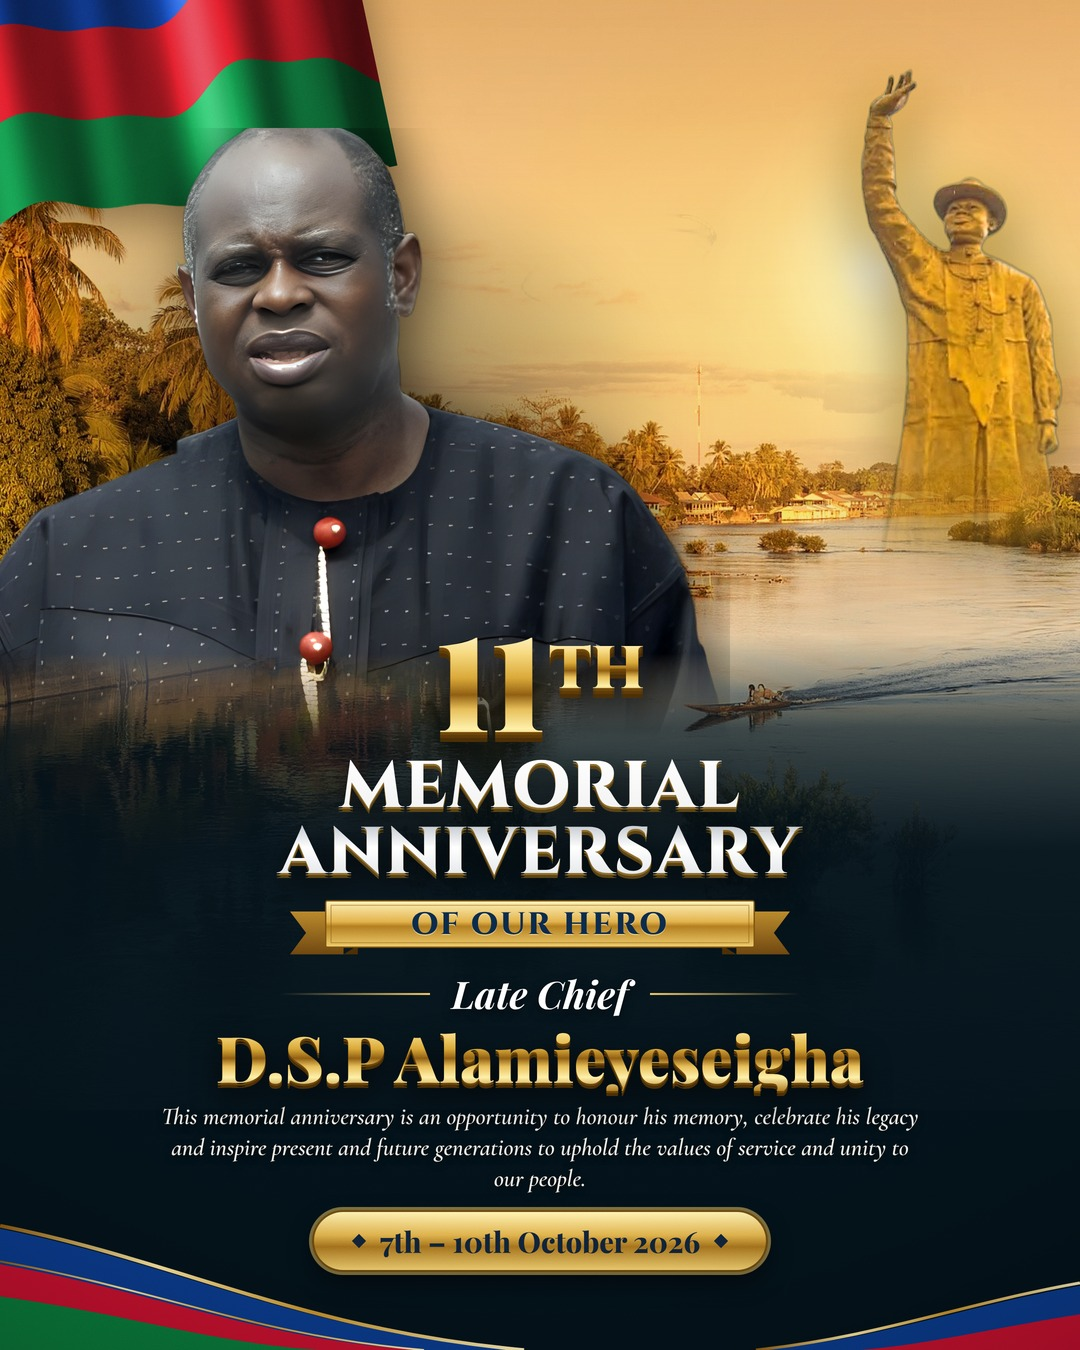
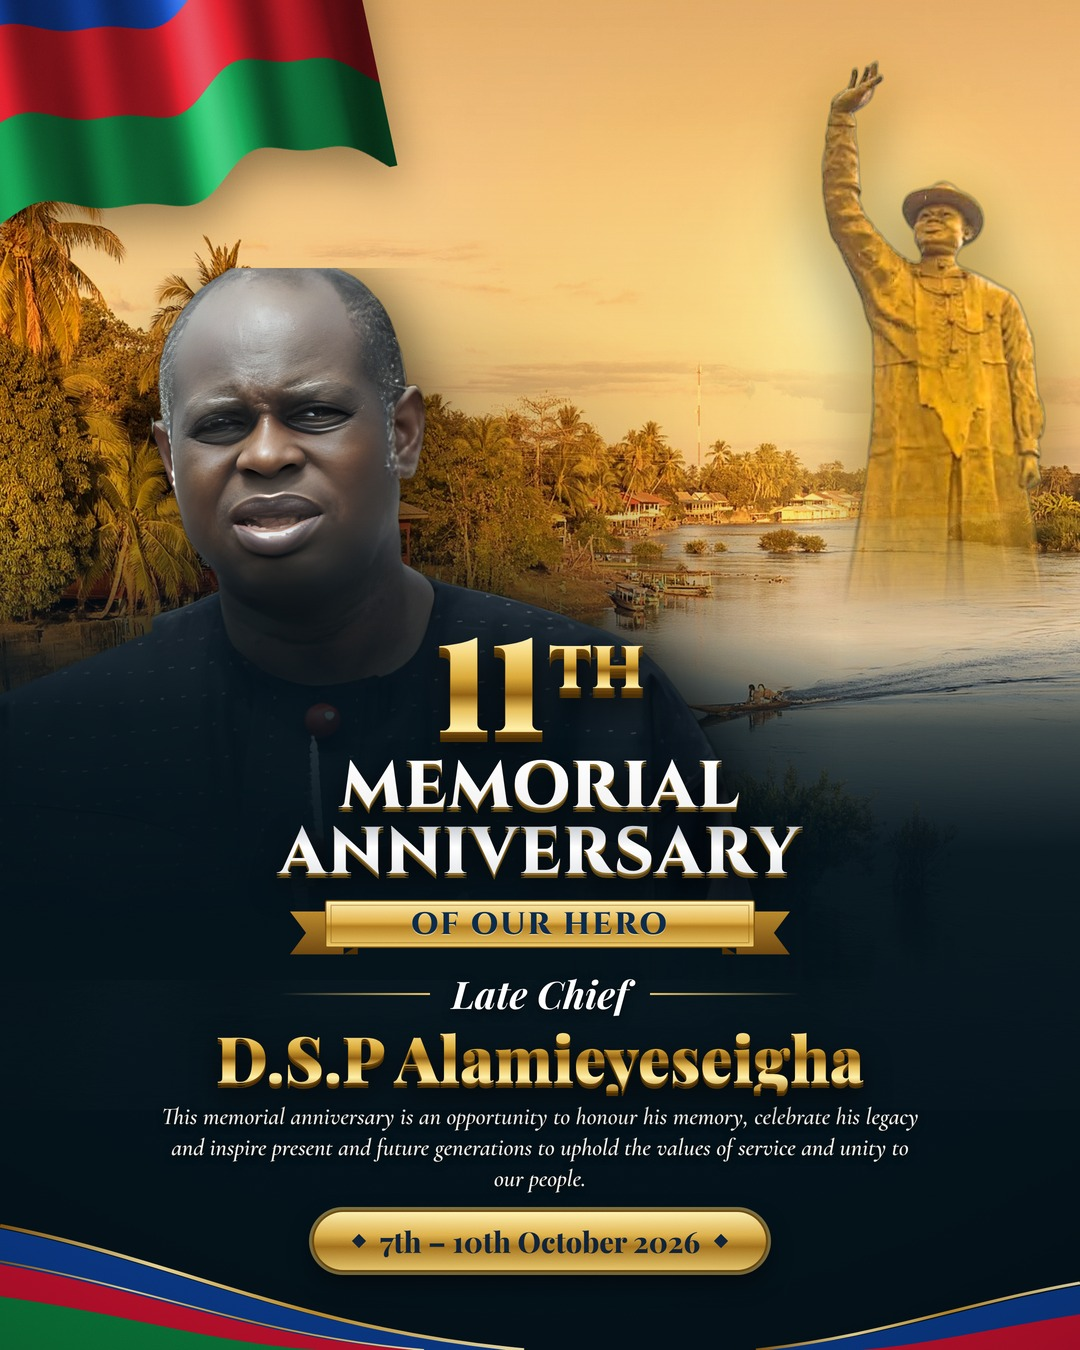
Enlarge and lower portrait, darken robe behind text, restore flag size
Claude-Session: https://claude.ai/code/session_016prf93qTiMKwy5VAqtTzSm

Changed region(s): [[0.0, 0.0933, 0.7333, 0.5911], [0.7333, 0.0311, 1.0, 0.4667]]

diff --git a/designs/alamieyeseigha-11th-memorial/source/poster.html b/designs/alamieyeseigha-11th-memorial/source/poster.html
@@ -23,16 +23,17 @@ html,body{width:1080px;height:1350px;background:#05141c;overflow:hidden}
 .flag-fade{left:-120px;top:-70px;width:640px;height:420px;background:linear-gradient(110deg,transparent 55%,rgba(5,20,28,.0) 60%);}
 
 /* statue */
-.statue-glow{left:700px;top:60px;width:420px;height:600px;background:radial-gradient(closest-side,rgba(255,206,110,.5),rgba(255,170,60,.12) 60%,transparent);filter:blur(10px);mix-blend-mode:screen}
-.statue{left:735px;top:66px;height:540px;filter:drop-shadow(0 0 18px rgba(255,200,90,.45)) drop-shadow(0 20px 30px rgba(0,0,0,.5)) saturate(1.15) contrast(1.08)}
+.statue-glow{left:642px;top:51px;width:468px;height:668px;background:radial-gradient(closest-side,rgba(255,206,110,.5),rgba(255,170,60,.12) 60%,transparent);filter:blur(10px);mix-blend-mode:screen}
+.statue{left:681px;top:57px;height:601px;filter:drop-shadow(0 0 18px rgba(255,200,90,.45)) drop-shadow(0 20px 30px rgba(0,0,0,.5)) saturate(1.15) contrast(1.08)}
 .statue-mask{-webkit-mask-image:linear-gradient(180deg,#000 66%,transparent 92%);mask-image:linear-gradient(180deg,#000 66%,transparent 92%)}
 
 /* portrait */
-.portrait{left:-70px;top:128px;width:800px;
+.portrait{left:-124px;top:268px;width:894px;
   -webkit-mask-image:linear-gradient(180deg,#000 86%,transparent 100%);mask-image:linear-gradient(180deg,#000 86%,transparent 100%);
   filter:drop-shadow(10px 0 26px rgba(0,0,0,.55)) contrast(1.05) brightness(1.03)}
-.pshade{display:none}
-.halo{left:-40px;top:150px;width:720px;height:560px;background:radial-gradient(closest-side,rgba(3,14,20,.55),transparent);filter:blur(20px)}
+.pshade{left:-140px;top:520px;width:980px;height:460px;background:linear-gradient(180deg,rgba(4,18,26,0) 0%,rgba(4,18,26,.55) 22%,rgba(4,18,26,.86) 42%,rgba(4,18,26,.95) 62%,#04121a 100%);-webkit-mask-image:linear-gradient(90deg,#000 72%,transparent 100%);mask-image:linear-gradient(90deg,#000 72%,transparent 100%)}
+.pwarm{left:-124px;top:268px;width:894px;height:683px;background:radial-gradient(500px 520px at 640px 160px,rgba(255,180,80,.45),transparent 70%);mix-blend-mode:soft-light;-webkit-mask-image:url(portrait_hb.png);mask-image:url(portrait_hb.png);-webkit-mask-size:100% 100%;mask-size:100% 100%}
+.halo{left:-100px;top:280px;width:860px;height:640px;background:radial-gradient(closest-side,rgba(3,14,20,.55),transparent);filter:blur(20px)}
 .rim{left:-40px;top:96px;width:720px;height:560px;background:radial-gradient(400px 500px at 760px 200px,rgba(255,190,90,.35),transparent 70%);mix-blend-mode:soft-light;pointer-events:none}
 
 /* bottom swoosh in flag colours */
@@ -74,6 +75,7 @@ html,body{width:1080px;height:1350px;background:#05141c;overflow:hidden}
   <div class="abs shade"></div>
   <div class="abs halo"></div>
   <img class="abs portrait" src="portrait_hb.png">
+  <div class="abs pwarm"></div>
   <div class="abs pshade"></div>
 
   <svg class="abs swoosh" viewBox="0 0 1080 420" style="height:300px" preserveAspectRatio="none">
